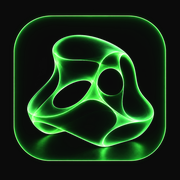
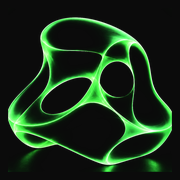
Add files via upload

diff --git a/man.html b/man.html
@@ -4,10 +4,10 @@
 <meta charset="utf-8">
 <meta name="viewport" content="width=device-width, initial-scale=1">
 <title>Доска заявки — Проектное бюро «Среда»</title>
-<link rel="icon" href="favicon.ico?v=5" sizes="any">
[1 lines of base64/hex data omitted]
-<link rel="icon" type="image/png" sizes="192x192" href="favicon-192.png?v=5">
-<link rel="apple-touch-icon" href="apple-touch-icon.png?v=5">
+<link rel="icon" href="favicon.ico?v=6" sizes="any">
[1 lines of base64/hex data omitted]
+<link rel="icon" type="image/png" sizes="192x192" href="favicon-192.png?v=6">
+<link rel="apple-touch-icon" href="apple-touch-icon.png?v=6">
 <meta name="theme-color" content="#0B0B0B">
 <link rel="preconnect" href="https://fonts.googleapis.com">
 <link rel="preconnect" href="https://fonts.gstatic.com" crossorigin>

diff --git a/spec.html b/spec.html
@@ -4,10 +4,10 @@
 <meta charset="utf-8">
 <meta name="viewport" content="width=device-width, initial-scale=1">
 <title>Доска заявки — Проектное бюро «Среда»</title>
-<link rel="icon" href="favicon.ico?v=5" sizes="any">
[1 lines of base64/hex data omitted]
-<link rel="icon" type="image/png" sizes="192x192" href="favicon-192.png?v=5">
-<link rel="apple-touch-icon" href="apple-touch-icon.png?v=5">
+<link rel="icon" href="favicon.ico?v=6" sizes="any">
[1 lines of base64/hex data omitted]
+<link rel="icon" type="image/png" sizes="192x192" href="favicon-192.png?v=6">
+<link rel="apple-touch-icon" href="apple-touch-icon.png?v=6">
 <meta name="theme-color" content="#0B0B0B">
 <link rel="preconnect" href="https://fonts.googleapis.com">
 <link rel="preconnect" href="https://fonts.gstatic.com" crossorigin>
